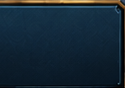
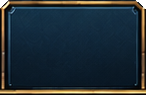
Frame every resting tab on all four sides
The kit tab piece was cut from the middle of the warband plate's tab strip,
so it carried only a top rim and a right divider. Boards, the armory strip
and the relic slot toggles drew resting tabs with open left and bottom edges.

Recut it with both shared dividers and the bottom rail (sky cleared from its
chamfered corners); chrome.py can now cut pieces by name. Boards pair
ach-tab with ach-tab-selected like the storehouse, and the armory draws
resting tabs over the cut's plate footprint so their rails lie on the plate's.

Changed region(s): [[0.0, 0.0, 1.0, 1.0]]

diff --git a/art/royal/chrome.py b/art/royal/chrome.py
@@ -2,8 +2,9 @@
 """Generic concept chrome for screens without a concept of their own: the modal frame and header,
 navy and gold buttons, tabs, tiles, parchment and the close button, cut from the clean plates.
 
-  python3 art/royal/chrome.py
+  python3 art/royal/chrome.py [name ...]
 """
+import sys
 from pathlib import Path
 from PIL import Image
 
@@ -30,15 +31,29 @@ def tile_fill(target, texture, box):
             target.paste(piece, (x, y))
 
 
-def main():
-    OUT.mkdir(parents=True, exist_ok=True)
-    warband, hub, multiplayer, codex = plate("warband"), plate("hub"), plate("multiplayer"), plate("codex")
-    for name, rect in {"button-navy": (753, 610, 216, 62), "button-gold": (979, 610, 265, 62), "tab": (743, 57, 96, 67),
-                       "tile": (753, 377, 181, 68), "close-button": (1186, 27, 54, 54)}.items():
-        cut(warband, *rect).save(OUT / f"{name}.png", optimize=True)
-    cut(codex, 126, 145, 535, 512).save(OUT / "paper.png", optimize=True)
+def clear_tab_corners(tab):
+    """Clears the sky above the tab's chamfered top corners, and the next tab's chamfer that meets its right one."""
+    w = tab.width
+    pixels = tab.load()
+    for corner, reach in ((0, 7), (w - 1, 8)):
+        def depth(x, y): return abs(x - corner) + y
+        # Everything above the chamfer's dark outline goes, and so does any sky the corner cut leaves beside it.
+        stack, seen = [(corner, 0)], set()
+        while stack:
+            x, y = stack.pop()
+            if (x, y) in seen or not 0 <= x < w or y < 0 or depth(x, y) > reach + 3:
+                continue
+            seen.add((x, y))
+            r, g, b, _ = pixels[x, y]
+            if depth(x, y) > reach and not (b >= r - 5 and 0.299 * r + 0.587 * g + 0.114 * b > 45):
+                continue
+            pixels[x, y] = (r, g, b, 0)
+            stack += [(x + 1, y), (x - 1, y), (x, y + 1)]
+    return tab
 
-    # Modal frame: the hub's brass border around plain planks.
+
+def modal_frame(hub):
+    """The hub's brass border around plain planks."""
     frame = cut(hub, 33, 92, 1214, 607)
     wood = cut(hub, 60, 260, 300, 120)
     border = round(16 * SCALE)
@@ -54,7 +69,9 @@ def main():
         tile_fill(frame, sample, (left, corner, left + border, h - corner))
     frame.save(OUT / "modal-frame.png", optimize=True)
 
-    # Header band: plain navy enamel on the left, castle art on the right; the emblem is drawn live.
+
+def modal_header(multiplayer):
+    """Header band: plain navy enamel on the left, castle art on the right; the emblem is drawn live."""
     header = cut(multiplayer, 33, 22, 1213, 98)
     plain = header.crop((round(300 * SCALE), 0, round(320 * SCALE), header.height))
     for x in range(round(14 * SCALE), round(300 * SCALE), plain.width):
@@ -66,8 +83,24 @@ def main():
     forest = header.crop((2 * fold - right, top, fold, bottom)).transpose(Image.FLIP_LEFT_RIGHT)
     header.paste(forest, (fold, top))
     header.save(OUT / "modal-header.png", optimize=True)
+
+
+def main(only=()):
+    OUT.mkdir(parents=True, exist_ok=True)
+    def wanted(name): return not only or name in only
+    warband, hub, multiplayer, codex = plate("warband"), plate("hub"), plate("multiplayer"), plate("codex")
+    # The tab is the strip's second tab with its whole rim: both gold dividers it shares with its neighbours and
+    # the rail beneath, so a tab standing on its own is framed on all four sides.
+    for name, rect in {"button-navy": (753, 610, 216, 62), "button-gold": (979, 610, 265, 62), "tab": (730.3, 56, 111.8, 72.6),
+                       "tile": (753, 377, 181, 68), "close-button": (1186, 27, 54, 54)}.items():
+        if wanted(name):
+            piece = cut(warband, *rect)
+            (clear_tab_corners(piece) if name == "tab" else piece).save(OUT / f"{name}.png", optimize=True)
+    if wanted("paper"): cut(codex, 126, 145, 535, 512).save(OUT / "paper.png", optimize=True)
+    if wanted("modal-frame"): modal_frame(hub)
+    if wanted("modal-header"): modal_header(multiplayer)
     print("chrome done")
 
 
 if __name__ == "__main__":
-    main()
+    main(sys.argv[1:])

diff --git a/scripts/ui/ShopMenu.cs b/scripts/ui/ShopMenu.cs
@@ -87,12 +87,15 @@ public partial class ShopMenu : RoyalScreen
         for (var i = 0; i < TabNames.Length; i++)
         {
             var index = i;
-            var rect = new Rect2(strip.Position.X + i * width, strip.Position.Y, width, strip.Size.Y);
+            // A resting tab is the plate's own tab with its whole rim (art/royal/chrome.py cuts it from y 56, 72.6 tall),
+            // so drawn over that footprint its rails lie on the plate's; the lit tab keeps the concept's rect.
+            var rect = i == _tab ? new Rect2(strip.Position.X + i * width, strip.Position.Y, width, strip.Size.Y)
+                : new Rect2(strip.Position.X + i * width, 56, width, 72.6f);
             var tab = RoyalButton.Over(rect, TabNames[i], () => SelectTab(index), 4);
             tab.SetStates(RoyalKit.Slice(i == _tab ? "tab-selected" : "tab", 10), 4);
             tab.MarkTab(i == _tab);
             _header.AddChild(tab);
-            tab.SetGlyph(RoyalKit.Texture(TabIcons[i]), new Rect2(width / 2 - 16, iconOffset - 2, 32, 27), i == _tab ? new Color("ffe7b0") : Colors.White);
+            tab.SetGlyph(RoyalKit.Texture(TabIcons[i]), new Rect2(width / 2 - 16, iconOffset - 2 + strip.Position.Y - rect.Position.Y, 32, 27), i == _tab ? new Color("ffe7b0") : Colors.White);
             var label = spec.Label("tab.warband.label", TabNames[i], width - 10, i == _tab ? new Color("fff1d2") : new Color("e2ddd6"));
             label.Align = HorizontalAlignment.Center;
             label.Position = new Vector2(5, label.Position.Y - rect.Position.Y);

diff --git a/scripts/ui/royal/RoyalBoard.cs b/scripts/ui/royal/RoyalBoard.cs
@@ -267,7 +267,7 @@ public abstract partial class RoyalBoard : RoyalScreen
     /// <summary>A page tab: navy at rest, lit gold when selected, with an optional emblem before its caption.</summary>
     protected RoyalButton Tab(Rect2 rect, string caption, bool selected, Action select, string glyph = null)
     {
-        var tab = Card(rect, caption, select, selected, "tab", "ach-tab-selected");
+        var tab = Card(rect, caption, select, selected, "ach-tab", "ach-tab-selected");
         // Reviews find and name a screen's pages by their tabs' text.
         tab.Text = caption;
         tab.MarkTab(selected);
